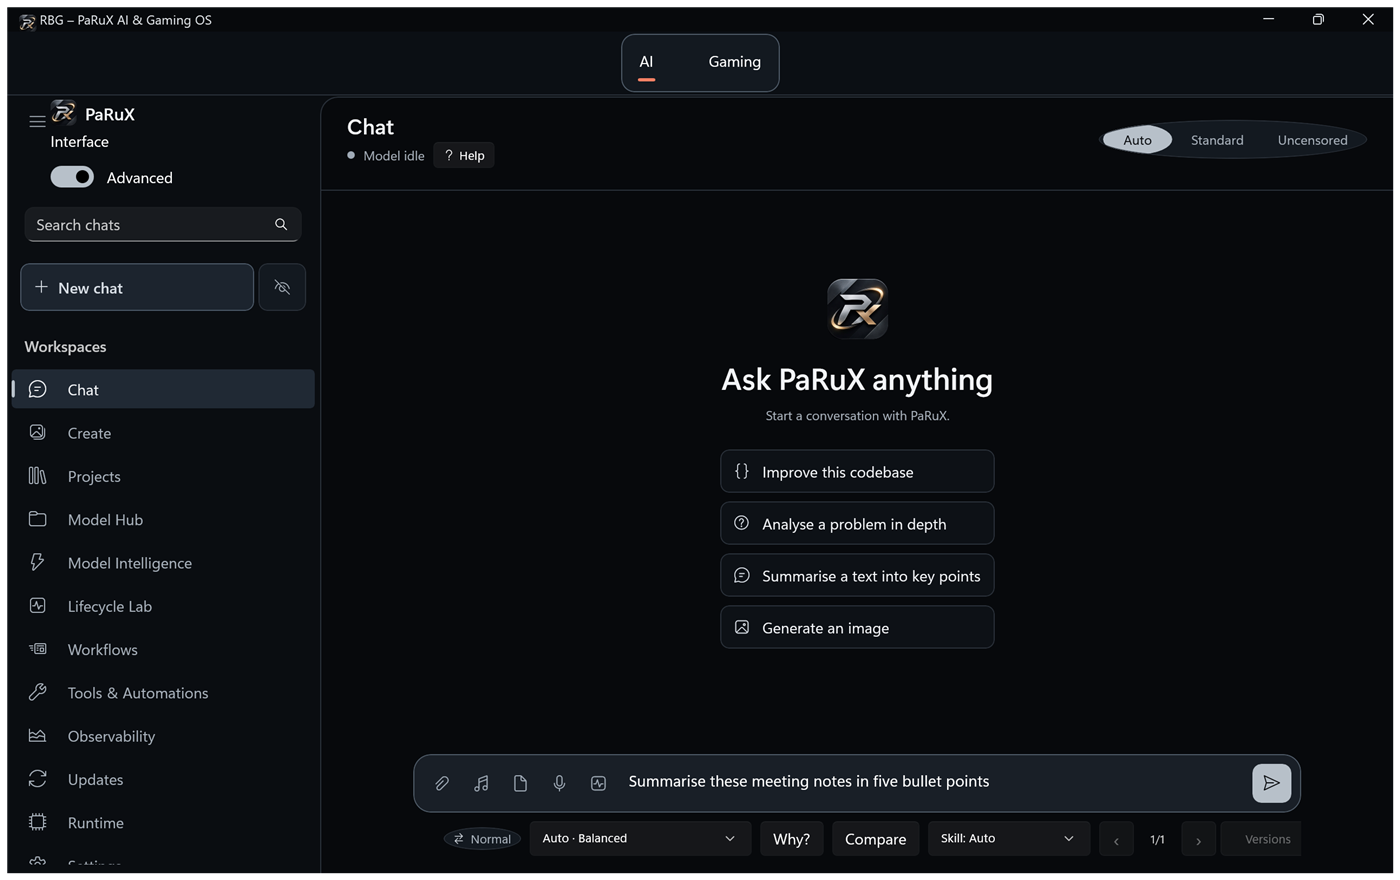
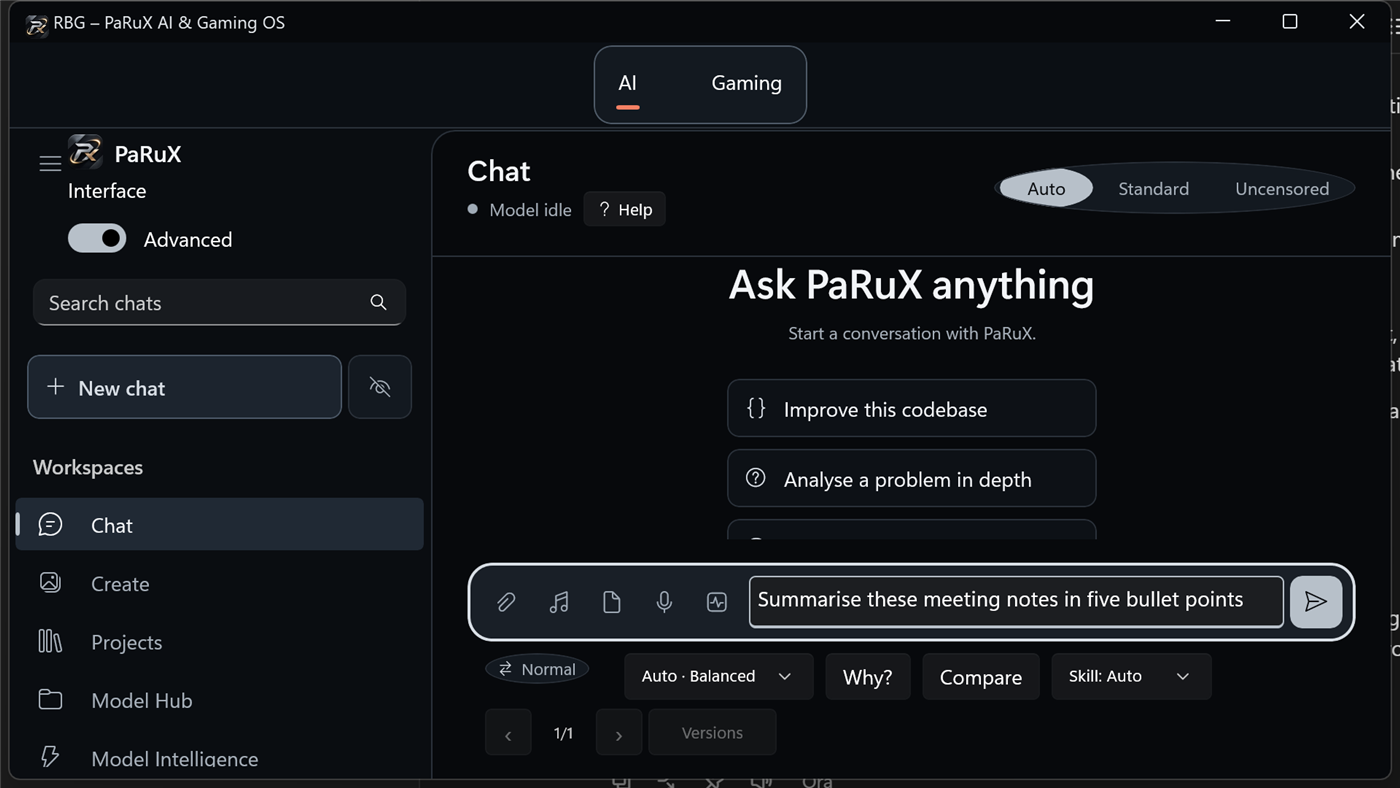
fix(ui): wrap Chat composer footer controls inside the window at narrow widths

diff --git a/src/PaRuX.App/Views/ChatView.xaml b/src/PaRuX.App/Views/ChatView.xaml
@@ -637,11 +637,13 @@
                 x:Name="ComposerFooterScrollViewer"
                 AutomationProperties.AutomationId="Chat_ComposerFooter_ScrollViewer"
                 Grid.Row="3"
-                HorizontalScrollBarVisibility="Visible"
-                HorizontalScrollMode="Enabled"
-                VerticalScrollBarVisibility="Disabled"
-                VerticalScrollMode="Disabled">
-                <StackPanel Orientation="Horizontal" Spacing="{StaticResource PaRuXSpaceS}" Margin="12,0,0,0">
+                MaxHeight="116"
+                HorizontalScrollBarVisibility="Disabled"
+                HorizontalScrollMode="Disabled"
+                VerticalScrollBarVisibility="Auto"
+                VerticalScrollMode="Auto">
+                <!-- Wraps to extra rows at narrow widths instead of running off the right edge; child order = focus order. -->
+                <loc:WrapRowPanel ColumnSpacing="8" RowSpacing="6" Margin="12,0,12,0">
                 <StackPanel x:Name="TuningStatusHost" Orientation="Horizontal" VerticalAlignment="Center" />
                 <StackPanel Orientation="Horizontal" Spacing="2">
                     <Button
@@ -839,7 +841,7 @@
                     FontSize="{StaticResource PaRuXFontSizeMicro}"
                     ToolTipService.ToolTip="Force a skill instead of AUTO routing" loc:Loc.ItToolTip="Forza una skill invece dell&#x27;instradamento AUTO"
                     SelectionChanged="SkillSelector_SelectionChanged" />
-            </StackPanel>
+            </loc:WrapRowPanel>
             </ScrollViewer>
         </Grid>
     </Grid>

diff --git a/tests/PaRuX.UITests/Tests/ResponsiveLayoutCoverageTests.cs b/tests/PaRuX.UITests/Tests/ResponsiveLayoutCoverageTests.cs
@@ -79,6 +79,64 @@ public sealed class ResponsiveLayoutCoverageTests
     }
 
     [Fact, Trait("Category", "Regression"), Trait("Category", "Navigation"), Trait("Category", "FlaUI")]
+    public void Chat_composer_footer_controls_wrap_inside_window_at_narrow_widths()
+    {
+        const string testName = nameof(Chat_composer_footer_controls_wrap_inside_window_at_narrow_widths);
+        using var app = new UiTestApplication(testName);
+        var originalBounds = SaveWindowBounds(app);
+        try
+        {
+            string[] simpleIds = { "Chat_CodeFolder_Button", "Chat_SimpleMode_ModelPicker_Button", "Chat_SimpleMode_RouteReason_Button", "Chat_SimpleMode_RuntimeHealth_Button" };
+            string[] advancedIds = { "Chat_ModelSelector_ComboBox", "Chat_ModelRoute_Explain_Button", "Chat_SkillSelector_ComboBox" };
+            // The branch navigator is added to the same footer row at run time; it must wrap with it instead of running off the edge.
+            string[] branchNames = { "Previous conversation version", "Next conversation version", "Conversation version history" };
+            var advancedPage = new ChatSimpleAdvancedPage(app.MainWindow, app);
+            foreach (bool advanced in new[] { false, true })
+            {
+                if (advanced) advancedPage.EnableAdvanced();
+                foreach (var (width, height, label) in new[] { (1024, 700, "1024x700"), (1280, 720, "1280x720"), (1400, 850, "1400x850"), (1920, 1080, "1920x1080") })
+                {
+                    string where = (advanced ? "Advanced " : "Simple ") + label;
+                    ResizeWindow(app, width, height);
+                    var window = app.MainWindow.Properties.BoundingRectangle.ValueOrDefault;
+                    // The footer sits under the composer, so a control past the Send button's right edge is clipped by the footer's viewport
+                    // (still inside the window, but unreachable); the window alone cannot detect that.
+                    int composerRight = UiWait.ById(app.MainWindow, "Chat_Send_Button").Properties.BoundingRectangle.ValueOrDefault.Right;
+                    var controls = (advanced ? advancedIds : simpleIds)
+                        .Select(i => (Id: i, Element: UiWait.ById(app.MainWindow, i)))
+                        .Concat(branchNames.Select(n =>
+                        {
+                            AutomationElement? found = null;
+                            UiWait.For(() => (found = app.MainWindow.FindFirstDescendant(cf => cf.ByName(n))) != null, "chat control named " + n);
+                            return (Id: n, Element: found!);
+                        })).ToArray();
+                    foreach (var (id, element) in controls)
+                    {
+                        UiWait.For(() =>
+                        {
+                            var b = element.Properties.BoundingRectangle.ValueOrDefault;
+                            return b.Width > 0 && b.Left >= window.Left - 2 && b.Right <= Math.Min(window.Right, composerRight) + 2
+                                && b.Top >= window.Top - 2 && b.Bottom <= window.Bottom + 2;
+                        }, $"{id} fully inside the window at {where}");
+                        Assert.False(element.Properties.IsOffscreen.ValueOrDefault, $"{id} must not be offscreen at {where}");
+                        if (element.Properties.IsEnabled.ValueOrDefault)
+                            Assert.True(element.Properties.IsKeyboardFocusable.ValueOrDefault, $"{id} must stay keyboard focusable at {where}");
+                    }
+                }
+            }
+        }
+        catch (Exception ex)
+        {
+            app.CaptureFailure(testName, ex);
+            throw;
+        }
+        finally
+        {
+            RestoreWindow(app, originalBounds);
+        }
+    }
+
+    [Fact, Trait("Category", "Regression"), Trait("Category", "Navigation"), Trait("Category", "FlaUI")]
     public void Settings_layout_and_primary_controls_remain_bounded_across_window_sizes()
     {
         const string testName = nameof(Settings_layout_and_primary_controls_remain_bounded_across_window_sizes);

diff --git a/src/PaRuX.App/Views/WrapRowPanel.cs b/src/PaRuX.App/Views/WrapRowPanel.cs
@@ -10,6 +10,12 @@ namespace PaRuX.Views;
 /// </summary>
 internal sealed class WrapRowPanel : Panel
 {
+    /// <summary>Gap between neighbouring children on one row (default 0).</summary>
+    public double ColumnSpacing { get; set; }
+
+    /// <summary>Gap between wrapped rows (default 0).</summary>
+    public double RowSpacing { get; set; }
+
     protected override Windows.Foundation.Size MeasureOverride(Windows.Foundation.Size availableSize)
     {
         double maxWidth = double.IsInfinity(availableSize.Width) ? double.PositiveInfinity : availableSize.Width;
@@ -18,13 +24,13 @@ internal sealed class WrapRowPanel : Panel
         {
             child.Measure(new Windows.Foundation.Size(maxWidth, double.PositiveInfinity));
             Windows.Foundation.Size size = child.DesiredSize;
-            if (x > 0 && x + size.Width > maxWidth)
+            if (x > 0 && x + ColumnSpacing + size.Width > maxWidth)
             {
-                totalHeight += rowHeight;
+                totalHeight += rowHeight + RowSpacing;
                 x = 0;
                 rowHeight = 0;
             }
-            x += size.Width;
+            x += (x > 0 ? ColumnSpacing : 0) + size.Width;
             rowHeight = Math.Max(rowHeight, size.Height);
             usedWidth = Math.Max(usedWidth, x);
         }
@@ -37,12 +43,13 @@ internal sealed class WrapRowPanel : Panel
         foreach (UIElement child in Children)
         {
             Windows.Foundation.Size size = child.DesiredSize;
-            if (x > 0 && x + size.Width > finalSize.Width)
+            if (x > 0 && x + ColumnSpacing + size.Width > finalSize.Width)
             {
-                y += rowHeight;
+                y += rowHeight + RowSpacing;
                 x = 0;
                 rowHeight = 0;
             }
+            if (x > 0) x += ColumnSpacing;
             child.Arrange(new Windows.Foundation.Rect(x, y, size.Width, size.Height));
             x += size.Width;
             rowHeight = Math.Max(rowHeight, size.Height);
